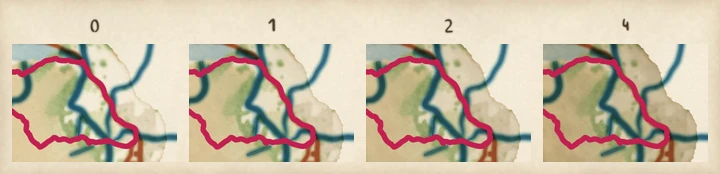
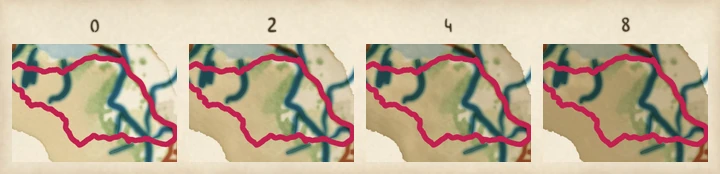
docs(docs): relief and bold's casing read at their own scale
Claude-Session: https://claude.ai/code/session_01FWNGTJLy72Gh2VopEVwzsE

diff --git a/examples/relief_grid.py b/examples/relief_grid.py
@@ -2,8 +2,8 @@
 
 `CoverStyle.relief_strength` multiplies the shaded relief's density, and the ceiling it is held
 to, so 1 is the style's own relief, 0 is none, and above 1 is a heavier hill. This script paints
-the Ambleside fixture four times with the default style, once at each of 0, 1, 2 and 4, and shows the same close window of each card side by side. The relief is part of what
-`paint` draws, so each strength paints its own plates, each in its own directory of the cache, and
+the Ambleside fixture four times with the default style, once at each of 0, 2, 4 and 8, and shows the same close window of each card, on the slope of
+Loughrigg Fell, side by side. The relief is part of what `paint` draws, so each strength paints its own plates, each in its own directory of the cache, and
 nothing else changes from one cell to the next: the route, the washes and the paper are the same.
 Each cell is the card composed with no lettering and no attribution, so the hill is what is seen;
 the strengths are lettered over the cells, in the hand.
@@ -43,14 +43,15 @@ from pyntpot.maps import (
 
 log = logging.getLogger(__name__)
 
-#: The strengths across: no relief, the default's own, and two heavier ones. The strength has no
-#: upper limit, and 4 is where the hill is clearly darker than the land beside it.
-STRENGTHS: tuple[float, ...] = (0.0, 1.0, 2.0, 4.0)
+#: The strengths across: no relief, then three heavier than the default's own. The window sits on
+#: Loughrigg Fell's slope, where each step darkens the hill by at least 3 CIE76 ΔE on average; the
+#: strength has no upper limit, and the relief saturates a little above 8.
+STRENGTHS: tuple[float, ...] = (0.0, 2.0, 4.0, 8.0)
 #: The grid's width in pixels, the room left of the cells, above them, round them and between them.
 GRID_W, LEFT, TOP, PAD, GAP = 720, 12, 44, 12, 12
 #: How many times a cell's width the card is painted across, and where the close window's top left
 #: corner is, as shares of the card's width and height. The window is `1 / ZOOM` of the card across.
-ZOOM, WINDOW_AT = 2, (0.40, 0.25)
+ZOOM, WINDOW_AT = 2, (0.28, 0.26)
 #: The hand's seed.
 SEED = 7
 #: How the names are lettered.
@@ -75,6 +76,27 @@ def _window(card: Image.Image) -> Image.Image:
     return card.crop((left, top, left + round(width / ZOOM), top + round(height / ZOOM)))
 
 
+def paint_cells(
+    *,
+    track: Path,
+    cache_dir: Path,
+    features: OverpassFeatures,
+    elevation: OpenTopoData,
+    cell_w: int,
+) -> list[Image.Image]:
+    """The close window of the card painted at each of `STRENGTHS`, in order, `cell_w * ZOOM` wide."""
+    route, cache = Track.from_gpx(track), Cache(cache_dir)
+    styles = [_style(s, cell_w) for s in STRENGTHS]
+    basemap = fetch(route, cache, features, elevation, styles[0])
+    key_dir = cache.plates_dir(cache.key(route, features, elevation))
+    unlettered = Lettering((), (), None)
+    cells: list[Image.Image] = []
+    for strength, style in zip(STRENGTHS, styles, strict=True):
+        plates = paint(basemap, style, key_dir / f"relief-{strength:g}")
+        cells.append(_window(compose(plates, unlettered, basemap, style, attribution=False)))
+    return cells
+
+
 def main(
     out_dir: Path,
     *,
@@ -95,16 +117,10 @@ def main(
     Returns:
         The path of the saved picture, `out_dir / "relief_strength.png"`.
     """
-    route, cache = Track.from_gpx(track), Cache(cache_dir)
     cell_w = (GRID_W - LEFT - PAD - GAP * (len(STRENGTHS) - 1)) // len(STRENGTHS)
-    styles = [_style(s, cell_w) for s in STRENGTHS]
-    basemap = fetch(route, cache, features, elevation, styles[0])
-    key_dir = cache.plates_dir(cache.key(route, features, elevation))
-    unlettered = Lettering((), (), None)
-    cells: list[Image.Image] = []
-    for strength, style in zip(STRENGTHS, styles, strict=True):
-        plates = paint(basemap, style, key_dir / f"relief-{strength:g}")
-        cells.append(_window(compose(plates, unlettered, basemap, style, attribution=False)))
+    cells = paint_cells(
+        track=track, cache_dir=cache_dir, features=features, elevation=elevation, cell_w=cell_w
+    )
     cell_h = round(cells[0].height * cell_w / cells[0].width)
     spec = GridSpec(GRID_W, len(STRENGTHS), 1, cell_h, LEFT, TOP, GAP, PAD, PAD)
     boxes = spec.boxes()

diff --git a/tests/examples/test_setting_grids.py b/tests/examples/test_setting_grids.py
@@ -1,5 +1,7 @@
 """The setting grids run offline, and every swept setting changes the picture it sweeps."""
 
+from itertools import pairwise
+
 import numpy as np
 import pytest
 from golden.make_docs_images import fixture_options
@@ -14,6 +16,25 @@ FIGURES = ("pool", "granulation", "dryness")
 SHAPES = {"pool": (4, 2), "granulation": (4, 3), "dryness": (4, 3)}
 #: The least mean difference between neighbouring cells that a painter can see, in 0 to 1.
 VISIBLE = 0.002
+#: The least mean CIE76 difference between neighbouring relief cells that reads by eye.
+RELIEF_DELTA_E = 3.0
+
+
+def _lab(srgb: np.ndarray) -> np.ndarray:
+    """Convert an sRGB array of 0 to 1 to CIE L*a*b* (D65)."""
+    linear = np.where(srgb > 0.04045, ((srgb + 0.055) / 1.055) ** 2.4, srgb / 12.92)
+    to_xyz = np.array(
+        [
+            [0.4124564, 0.3575761, 0.1804375],
+            [0.2126729, 0.7151522, 0.0721750],
+            [0.0193339, 0.1191920, 0.9503041],
+        ]
+    )
+    xyz = (linear @ to_xyz.T) / np.array([0.95047, 1.0, 1.08883])
+    f = np.where(xyz > 216 / 24389, np.cbrt(xyz), (24389 / 27 * xyz + 16) / 116)
+    return np.stack(
+        [116 * f[..., 1] - 16, 500 * (f[..., 0] - f[..., 1]), 200 * (f[..., 1] - f[..., 2])], -1
+    )
 
 
 def _grids():
@@ -102,3 +123,18 @@ class TestReliefGrid:
             assert image.mode == "RGB"
             pixels = np.asarray(image)
         assert (pixels.min(axis=(0, 1)) != pixels.max(axis=(0, 1))).all()
+
+    @pytest.mark.golden
+    def test_neighbouring_cells_differ_visibly(self, tmp_path):
+        """Each relief cell differs from the one beside it by at least 3 mean CIE76 delta E over the window."""
+        script = load_example("relief_grid", "example_relief_grid")
+        options = fixture_options("ambleside", tmp_path / "cache")
+        strengths = script["STRENGTHS"]
+        cell_w = (
+            script["GRID_W"] - script["LEFT"] - script["PAD"] - script["GAP"] * (len(strengths) - 1)
+        ) // len(strengths)
+        cells = script["paint_cells"](cell_w=cell_w, **options)
+        labs = [_lab(np.asarray(cell.convert("RGB"), np.float64) / 255) for cell in cells]
+        for strength, (left, right) in zip(strengths[1:], pairwise(labs), strict=True):
+            delta_e = np.sqrt(((left - right) ** 2).sum(axis=-1)).mean()
+            assert delta_e >= RELIEF_DELTA_E, (strength, delta_e)

diff --git a/tests/unit/maps/test_theme_named.py b/tests/unit/maps/test_theme_named.py
@@ -8,6 +8,8 @@ from pathlib import Path
 import pytest
 from PIL import Image
 
+from pyntpot.ink import Colour
+from pyntpot.ink.effect_types import Casing
 from pyntpot.maps import Style
 from pyntpot.maps.cli import main
 from pyntpot.maps.line_effects import BUILT_IN_PRESETS, EffectStack
@@ -19,7 +21,7 @@ NAMES = ("bold", "default", "pen-and-ink", "sepia", "winter")
 PACKAGED = ("bold", "pen-and-ink", "sepia", "winter")
 #: Each packaged theme's digests, measured from the TOML files on f34de97 and unchanged by 008 S1.
 DIGESTS = {
-    "bold": ("847995154c6b0d62", "bc7323df2b3f6430", "2a7a209c41fe7df8"),
+    "bold": ("739a529eb5151ef0", "bc7323df2b3f6430", "2a7a209c41fe7df8"),
     "pen-and-ink": ("d6cd7f31218e42a5", "73a44bc9875190e1", "9c4b7732ec2b6d7d"),
     "sepia": ("7c12a224dea23ddd", "bb3e691b4240decb", "9f7523b1ae707038"),
     "winter": ("7a964582841d2c30", "4106da33e2e6f96d", "68d9f8d8810bd9bb"),
@@ -53,13 +55,16 @@ def test_each_named_theme_keeps_its_digests(name: str) -> None:
 
 
 def test_bold_cases_its_route_and_nothing_else() -> None:
-    """Bold's route ink carries the `cased` stack, no basemap class has an effect, and the plates' digests are those of a bold that sets none."""
+    """Bold's route ink carries its own wider cream `bold_cased` casing, which is not the built-in `cased`, no basemap class has an effect, and the plates' digests are those of a bold that sets none."""
     bold = Style.named("bold")
     plain = bold.model_copy(
         update={"route_ink": dataclasses.replace(bold.route_ink, effects=EffectStack())}
     )
 
-    assert bold.route_ink.effects == BUILT_IN_PRESETS["cased"]
+    assert bold.route_ink.effects == EffectStack(
+        effects=(Casing(width_px=3.4, colour=Colour("#fbf6e8"), strength=1.0),)
+    )
+    assert bold.route_ink.effects != BUILT_IN_PRESETS["cased"]
     assert bold.basemap.line_effects == {}
     assert bold.digest() != plain.digest()
     assert bold.base_digest() == plain.base_digest()

diff --git a/tests/golden/test_map_styles.py b/tests/golden/test_map_styles.py
@@ -24,7 +24,7 @@ CARD_SIZE = (1800, 1281)
 MEAN_RGB: dict[str, tuple[float, float, float]] = {
     "pen-and-ink": (226.8, 221.4, 209.3),
     "sepia": (198.4, 168.6, 118.3),
-    "bold": (212.9, 208.3, 182.8),
+    "bold": (214.1, 209.6, 184.8),
     "winter": (206.2, 213.0, 218.5),
 }
 

diff --git a/docs/how-to/write-a-theme.md b/docs/how-to/write-a-theme.md
@@ -279,13 +279,14 @@ cover:
   relief_strength: 2.0
 ```
 
-![Four close windows of the Ambleside card, the land to the east of the lake shaded more heavily from left to right as the strength rises.](../images/how-to/relief-strength.webp)
+![Four close windows of the Ambleside card on the slope of Loughrigg Fell, the hillside shaded more heavily from left to right as the strength rises.](../images/how-to/relief-strength.webp)
 
-*Painted by `examples/relief_grid.py` (the Ambleside fixture, the default style). The labels read 0, 1, 2 and 4 across. The value is `relief_strength`.*
+*Painted by `examples/relief_grid.py` (the Ambleside fixture, the default style). The labels read 0, 2, 4 and 8 across. The value is `relief_strength`.*
 
-At 0 the washes are flat. At 1 the hills are a quiet shade under the colour, and at 2 they
-carry the form of the ground. At 4 the slopes are dark enough to dull the colour of the land
-under them, which suits a map of mountains. `cover.relief` set to `false`
+At 0 the washes are flat. At 2 the fell carries a shade under the colour, at 4 the slopes
+take on the form of the ground, and at 8 they are dark enough to dull the colour of the land
+under them, which suits a map of mountains. Past about 8 the relief stops growing darker. `1.0`
+is the default's own, a quieter shade than any of these cells. `cover.relief` set to `false`
 turns the relief off whatever its strength.
 
 ## Editor completion
@@ -456,8 +457,9 @@ file is `src/pyntpot/maps/themes/sepia.yaml`; paint with it by `--style sepia`.
 The pigments in `cover.pigments` are saturated, and each carries a lower transparency, so
 they lay down denser. `brush.river_mult` widens the rivers. `nib` letters larger
 and heavier. `route_ink` makes the route magenta and 8 pixels wide, and `line_effects` cases it with
-the `cased` preset, a paper-coloured ring that keeps it apart from the rivers and roads it
-crosses. Its file is
+`bold_cased`, a preset of its own in `effect_presets`: a cream ring 3.4 pixels wide at full
+strength, wider than the built-in `cased` so that it still reads as a paper margin when the card is
+shown at page width, and keeps the route apart from the rivers and roads it crosses. Its file is
 `src/pyntpot/maps/themes/bold.yaml`; paint with it by `--style bold`.
 
 ### Winter

diff --git a/docs/gallery.md b/docs/gallery.md
@@ -162,9 +162,9 @@ Every picture in these docs is painted by pyntpot from a script in `examples/`, 
 
 *Painted by `examples/map_styles.py` (figure winter).*
 
-![Four close windows of the Ambleside card, the land to the east of the lake shaded more heavily from left to right as the relief strength rises.](images/how-to/relief-strength.webp)
+![Four close windows of the Ambleside card on the slope of Loughrigg Fell, the hillside shaded more heavily from left to right as the relief strength rises.](images/how-to/relief-strength.webp)
 
-*Painted by `examples/relief_grid.py` (the Ambleside fixture, the default style). The labels read 0, 1, 2 and 4 across.*
+*Painted by `examples/relief_grid.py` (the Ambleside fixture, the default style). The labels read 0, 2, 4 and 8 across.*
 
 ### [Map from the command line](how-to/map-from-the-command-line.md)
 
